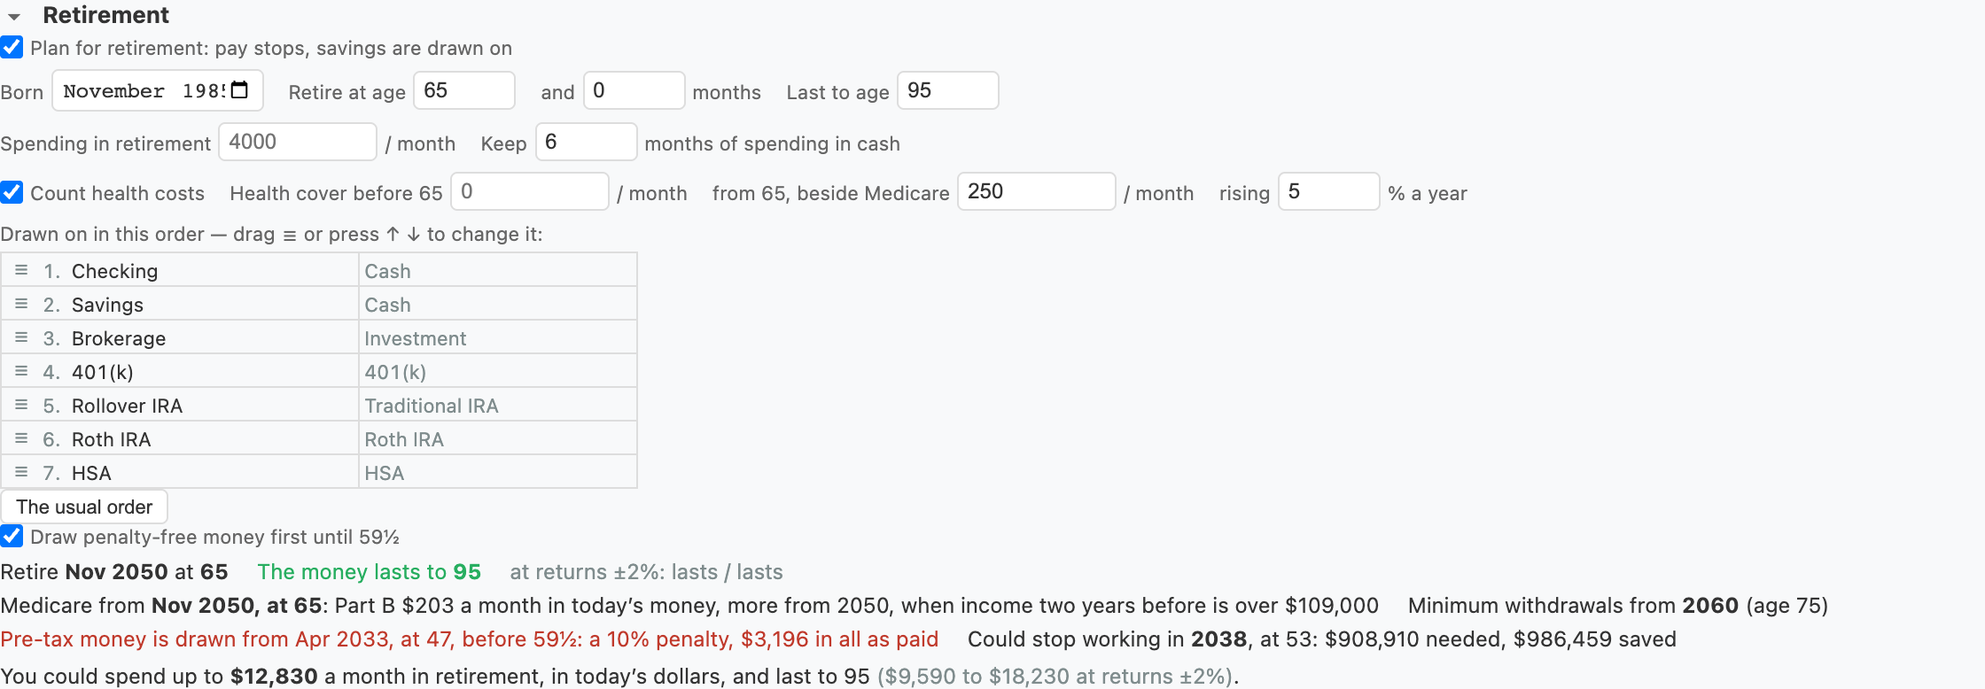
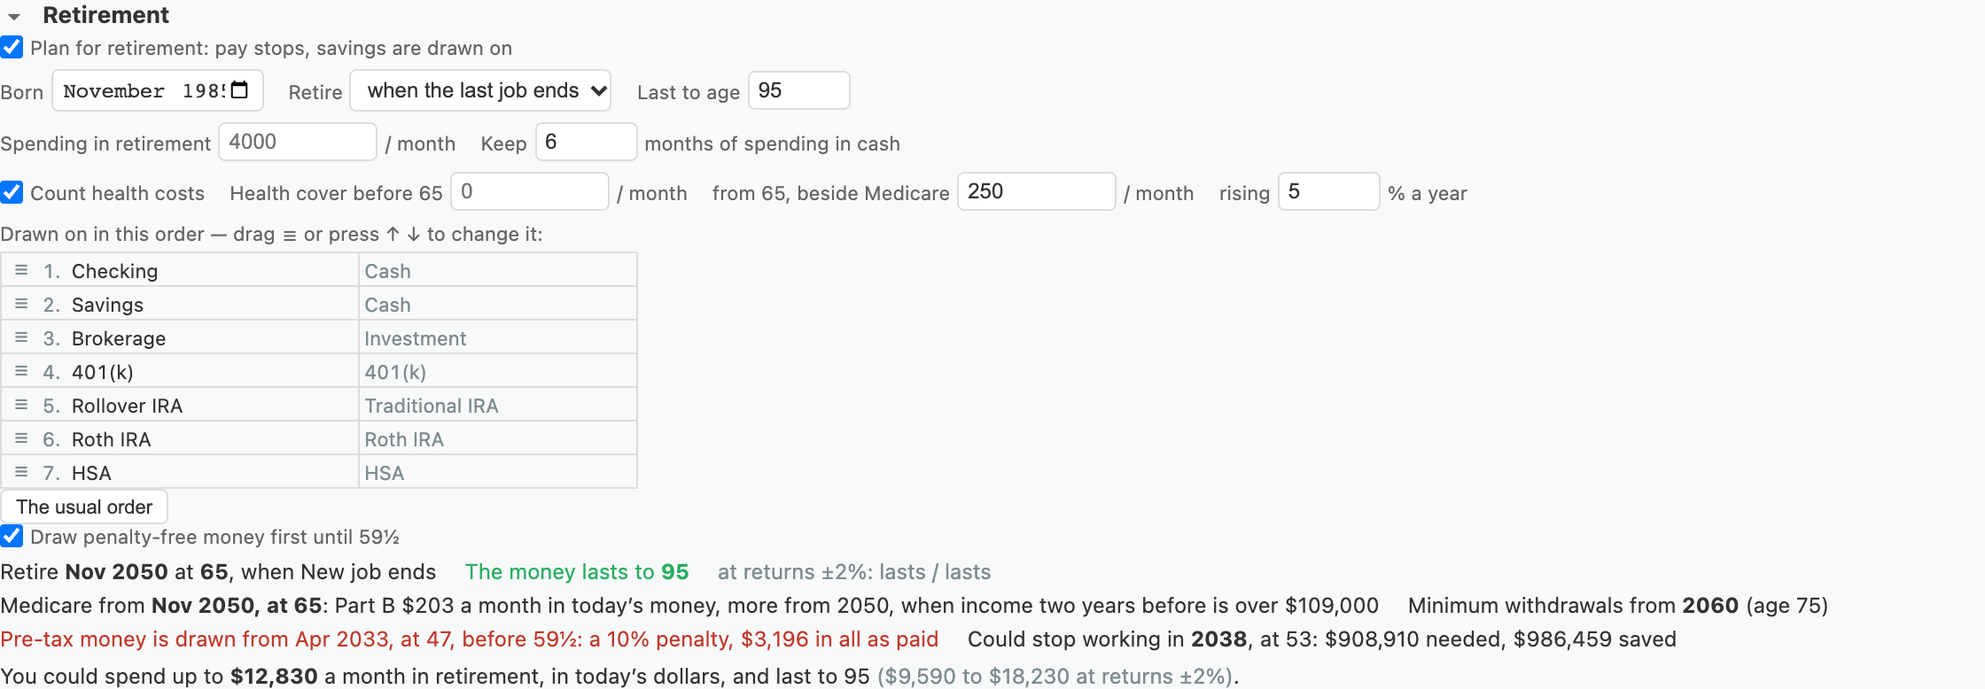
Finance Planning: retire when the last job ends, and the age-55 rule by the job
Retirement can start at an age or the month after the last job ends, falling back on the
age where a job has no end date. Pay lines can be marked part-time or bridge work, which
holds nothing back. The gap warning offers the change when every job has an end date, and
the stocks and bonds mix counts the years to the date in use.

A 401(k) or 403(b) now takes the age-55 exception from the end of the job paying into it,
where the plan says when that is, rather than from retirement.

The example retires with its last job, in the same month as before.

Changed region(s): [[0.125, 0.8021, 0.5, 0.8638], [0.1562, 0.0925, 0.4688, 0.1851]]

diff --git a/plugins/toolboxes/finance-tools.js b/plugins/toolboxes/finance-tools.js
@@ -153,6 +153,9 @@ tr.fp-acc.fp-open td { background: var(--bg-secondary); }
 .fp-table.fp-draw { width: auto; min-width: 360px; }
 .fp-draw-n { color: var(--text-muted); margin: 0 4px 0 2px; }
 .fp-retire-out { margin-top: 6px; }
+.fp-retire-age { display: contents; }
+.calc-widget.fp-widget .fp-assume select[data-k="from"] { width: auto; padding: 3px 5px; font-size: 12px; }
+.fp-retire-age[hidden] { display: none; }
 .fp-retire-max { margin-top: 4px; }
 .fp-flow { display: flex; flex-wrap: wrap; gap: 4px 14px; font-variant-numeric: tabular-nums; }
 .fp-into { margin-top: 6px; color: var(--text-secondary); }
@@ -1537,7 +1540,7 @@ function fpDefaultPlan() {
     Object.keys(FP_KINDS).forEach(k => { returns[k] = FP_KINDS[k].rate; });
     return { accounts: [], incomes: [], expenses: [], goals: [], tax: { on: true, status: 'single', year: '' }, surplusTo: '',
         assume: { years: 30, inflation: 2.5, real: true, spread: 2, target: 1000000, returns: returns },
-        retire: { on: false, birth: '', ageYears: 65, ageMonths: 0, until: 95, spending: null, buffer: 6, avoidPenalty: true, health: false, healthBefore: null, healthAfter: null, medInfl: 5 }, drawOrder: [],
+        retire: { on: false, birth: '', from: 'age', ageYears: 65, ageMonths: 0, until: 95, spending: null, buffer: 6, avoidPenalty: true, health: false, healthBefore: null, healthAfter: null, medInfl: 5 }, drawOrder: [],
         // Where the next dollar goes: the thresholds its steps use, and how much risk.
         advice: { starter: 1, months: 6, debtRate: 8, risk: 'middle', stocks: 8, bonds: 4, lump: null } };
 }
@@ -2238,8 +2241,20 @@ function fpIsRoth(a) {
     return a.kind === 'retirement' && a.tax === 'roth';
 }
 
+/** The job that ends last, `line`, for a retirement that goes by it — or, where a job has no
+ *  end, that job as `open`. Part-time or bridge work holds nothing back; a pension or rent
+ *  is not a job. */
+function fpLastJob(plan) {
+    const jobs = fpEntries(plan.incomes).filter(l => l.type !== 'ss' && l.wages !== false && !l.bridge && fpNum(l.amount, 0) > 0);
+    const open = jobs.find(l => !l.to);
+    if (open || !jobs.length) return { line: null, open: open || null };
+    return { line: jobs.reduce((a, b) => b.to > a.to ? b : a), open: null };
+}
+
 /** When retirement starts and how long the plan runs, from the birth month — the plan's
- *  own, or the first Social Security line's — or null when it is off or cannot be told. */
+ *  own, or the first Social Security line's — or null when it is off or cannot be told.
+ *  It starts at the age given or, told to go by the job, the month after the last one ends;
+ *  a job with no end falls back on the age. */
 function fpRetireInfo(plan) {
     const r = plan.retire || {};
     if (!r.on) return null;
@@ -2248,10 +2263,12 @@ function fpRetireInfo(plan) {
     const m = /^(\d{4})-(\d{2})$/.exec(birth || '');
     if (!m) return { missing: 'birth' };
     const by = +m[1], bm = +m[2] - 1;
-    const at = Math.round(fpNum(r.ageYears, 65) * 12 + fpNum(r.ageMonths, 0));
+    const job = r.from === 'job' ? fpLastJob(plan) : null;
+    const ended = job && job.line ? job.line.to.split('-').map(Number) : null;
+    const at = ended ? ended[0] * 12 + ended[1] - (by * 12 + bm) : Math.round(fpNum(r.ageYears, 65) * 12 + fpNum(r.ageMonths, 0));
     const until = Math.max(Math.ceil(at / 12) + 1, Math.round(fpNum(r.until, 95)));
     const date = new Date(by, bm + at, 1);
-    return { birthYear: by, birthMonth: bm, birth: birth, atMonths: at, date: date, ym: fpYm(date), until: until, end: new Date(by, bm + until * 12, 1),
+    return { birthYear: by, birthMonth: bm, birth: birth, atMonths: at, job: job, date: date, ym: fpYm(date), until: until, end: new Date(by, bm + until * 12, 1),
         rmdAge: fpRmdAge(by), early: taxRulesFor('').withdraw.early, penalty: taxRulesFor('').withdraw.penalty, sepAge: taxRulesFor('').withdraw.sepAge, hsaAge: taxRulesFor('').withdraw.hsaAge, hsaPenalty: taxRulesFor('').withdraw.hsaPenalty, ageAt: (d) => (d.getFullYear() * 12 + d.getMonth()) - (by * 12 + bm) };
 }
 
@@ -2457,6 +2474,17 @@ function fpProject(plan, shift, opts) {
     // penalty from then. IRAs keep the early age.
     const leftWork = !retOk ? null : opts.stopT !== undefined && isFinite(opts.stopT) ? new Date(start.getFullYear(), start.getMonth() + opts.stopT - 1, 1) : ret.date;
     const leftAt55 = !!leftWork && leftWork.getFullYear() - ret.birthYear >= ret.sepAge;
+    // A 401(k) or 403(b) goes by the job paying into it, where the plan says when that ends:
+    // the month after the last line into it, or work stopping if that is sooner.
+    const leftJob = {};
+    plan.accounts.filter(a => a.kind === 'retirement' && a.planType !== 'ira' && a.planType !== '457').forEach(a => {
+        const lines = fpEntries(plan.incomes).filter(l => l.type !== 'ss' && fpIntoRows(l).some(r => r.account === a.id));
+        if (!lines.length || lines.some(l => !l.to)) return;
+        const [y, m] = lines.reduce((x, l) => l.to > x ? l.to : x, '').split('-').map(Number);
+        let left = new Date(y, m, 1);
+        if (opts.stopT !== undefined && isFinite(opts.stopT)) left = new Date(Math.min(left, new Date(start.getFullYear(), start.getMonth() + opts.stopT - 1, 1)));
+        leftJob[a.id] = left;
+    });
     let first = null;
     const snaps = opts.snapshots ? [] : null;
     // What made up each row: this month into row 0 as well as row 1.
@@ -2640,7 +2668,9 @@ function fpProject(plan, shift, opts) {
             if (a.kind !== 'retirement' || age >= W.early) return 0;
             // Before retirement, the job is not taken to be left: no age-55 exception.
             if (retired && a.planType === '457') return 0;
-            if (retired && a.planType !== 'ira' && leftAt55) return 0;
+            const left = leftJob[a.id];
+            if (left) { if (birthB && date >= left && left.getFullYear() - birthB.y >= W.sepAge) return 0; }
+            else if (retired && a.planType !== 'ira' && leftAt55) return 0;
             return W.penalty / 100;
         };
         // What can come out of an account this month without a penalty: all of it, a Roth's
@@ -2812,6 +2842,15 @@ function fpPayGap(plan, ret) {
         }
     }
     return null;
+}
+
+/** The gap closed: retirement from here goes by the last job. */
+function fpRetireByJob(btn) {
+    const widget = fpWidget(btn), toolId = fpToolId(btn);
+    const plan = fpGet(toolId);
+    plan.retire.from = 'job';
+    fpSet(toolId, plan);
+    fpRender(widget);
 }
 
 /**
@@ -3131,7 +3170,8 @@ function fpAdviceMix(plan, proj) {
     const a = plan.advice || {};
     const birth = fpBirthOf(plan);
     if (!birth) return null;
-    const retAge = fpNum((plan.retire || {}).ageYears, 65) + fpNum((plan.retire || {}).ageMonths, 0) / 12;
+    const ret = fpRetireInfo(plan);
+    const retAge = ret && !ret.missing ? ret.atMonths / 12 : fpNum((plan.retire || {}).ageYears, 65) + fpNum((plan.retire || {}).ageMonths, 0) / 12;
     const now = new Date();
     const age = (now.getFullYear() * 12 + now.getMonth() - (birth.y * 12 + birth.m)) / 12;
     const years = retAge - age;
@@ -3552,6 +3592,8 @@ function fpIncomeDetailsRow(plan, l) {
         '<div class="fp-detail-fields">' +
         '<label class="fp-check" title="Pay from a job has Social Security and Medicare tax taken from it; a pension, rent or interest does not"><input class="fp-in" type="checkbox" data-f="wages"' +
             (l.wages !== false ? ' checked' : '') + '> Pay from work (payroll tax)</label>' +
+        '<label class="fp-check" title="Work that carries on after retirement until its own end date, or fills the time until then. Retiring when the last job ends takes no account of it."><input class="fp-in" type="checkbox" data-f="bridge"' +
+            (l.bridge ? ' checked' : '') + '> Part-time or bridge work: doesn’t hold back retirement</label>' +
         '</div><div class="fp-detail-sum"></div></td></tr>';
 }
 
@@ -3625,8 +3667,10 @@ function fpRetireFields(plan, attr, under) {
     return head +
         '<div class="fp-assume">' +
             '<label>Born <input class="fp-in fp-date" type="month" data-a="retire" data-k="birth" value="' + attr(r.birth) + '"' + (ss ? ' title="Empty: ' + ss.birth + ', from Social Security"' : '') + '></label>' +
-            '<label>Retire at age <input class="fp-in fp-num fp-small" type="number" min="40" max="80" data-a="retire" data-k="ageYears" value="' + attr(r.ageYears) + '" placeholder="65"></label>' +
-            '<label>and <input class="fp-in fp-num fp-small" type="number" min="0" max="11" data-a="retire" data-k="ageMonths" value="' + attr(r.ageMonths) + '" placeholder="0"> months</label>' +
+            '<label title="At an age you give, or the month after the last pay from work ends. A job with no end date falls back on the age.">Retire <select class="fp-in" data-a="retire" data-k="from">' +
+                '<option value="age"' + (r.from !== 'job' ? ' selected' : '') + '>at age</option><option value="job"' + (r.from === 'job' ? ' selected' : '') + '>when the last job ends</option></select></label>' +
+            '<span class="fp-retire-age"><label><input class="fp-in fp-num fp-small" type="number" min="40" max="80" data-a="retire" data-k="ageYears" aria-label="Retirement age" value="' + attr(r.ageYears) + '" placeholder="65"></label>' +
+            '<label>and <input class="fp-in fp-num fp-small" type="number" min="0" max="11" data-a="retire" data-k="ageMonths" value="' + attr(r.ageMonths) + '" placeholder="0"> months</label></span>' +
             '<label>Last to age <input class="fp-in fp-num fp-small" type="number" min="60" max="115" data-a="retire" data-k="until" value="' + attr(r.until) + '" placeholder="95"></label>' +
         '</div><div class="fp-assume">' +
             '<label title="In today’s dollars; it rises with inflation. Empty: today’s expenses.">Spending in retirement <input class="fp-in fp-num" type="number" data-a="retire" data-k="spending" value="' + attr(r.spending) + '" placeholder="' + Math.round(fpRetireSpending(Object.assign({}, plan, { retire: Object.assign({}, r, { spending: null }) }))) + '"> / month</label>' +
@@ -3658,7 +3702,7 @@ function fpRetireLines(plan, proj) {
     const ret = proj.retire;
     if (!ret) return [];
     const ms = proj.milestones, mon = (d) => d.toLocaleDateString(undefined, { month: 'short', year: 'numeric' });
-    const lines = ['Retire ' + mon(ret.date) + ' at ' + fpAgeText(ret.atMonths) + ', spending ' + fpMoney(fpRetireSpending(plan)) + ' a month in today’s dollars, keeping ' +
+    const lines = ['Retire ' + mon(ret.date) + ' at ' + fpAgeText(ret.atMonths) + (ret.job && ret.job.line ? ', when ' + (ret.job.line.name || 'the last job') + ' ends' : '') + ', spending ' + fpMoney(fpRetireSpending(plan)) + ' a month in today’s dollars, keeping ' +
         fpNum(plan.retire.buffer, 6) + ' months of it in cash.'];
     if (ms.runsOut === null) lines.push('The money lasts to ' + ret.until + '.');
     else { const d = new Date(proj.start.getFullYear(), proj.start.getMonth() + ms.runsOut - 1, 1); lines.push('The money runs out at ' + Math.floor(ret.ageAt(d) / 12) + ', in ' + mon(d) + '.'); }
@@ -3685,7 +3729,11 @@ function fpRenderRetire(widget, plan, proj, low, high) {
     if (ret.missing) { out.innerHTML = '<span class="fp-note">A birth month — here, or on a Social Security line — is all it needs to know when.</span>'; return; }
     const ms = proj.milestones;
     const mon = (d) => d.toLocaleDateString(undefined, { month: 'short', year: 'numeric' });
-    const bits = ['Retire <b>' + mon(ret.date) + '</b> at <b>' + fpAgeText(ret.atMonths) + '</b>'];
+    const byJob = ret.job && ret.job.line;
+    const ageBox = widget.querySelector('.fp-retire-age');
+    if (ageBox) ageBox.hidden = !!byJob;
+    const bits = ['Retire <b>' + mon(ret.date) + '</b> at <b>' + fpAgeText(ret.atMonths) + '</b>' + (byJob ? ', when ' + escapeHtml(byJob.name || 'the last job') + ' ends' : '')];
+    if (ret.job && !byJob) bits.push('<span class="fp-muted">' + (ret.job.open ? escapeHtml(ret.job.open.name || 'A job') + ' has no end date' : 'No job in Income') + ', so the age above is used</span>');
     if (ms.runsOut === null) bits.push('<span class="fp-pos">The money lasts to <b>' + ret.until + '</b></span>');
     else {
         const d = new Date(proj.start.getFullYear(), proj.start.getMonth() + ms.runsOut - 1, 1);
@@ -3697,7 +3745,8 @@ function fpRenderRetire(widget, plan, proj, low, high) {
         bits.push('<span class="fp-muted">at returns ±' + fpNum(plan.assume.spread, 0) + '%: ' + said(lo) + ' / ' + said(hi) + '</span>');
     }
     const gap = fpPayGap(plan, ret);
-    if (gap) bits.push('<span class="fp-neg">Pay stops in <b>' + fpWhen(plan, gap) + '</b>, but retirement is set for ' + fpWhen(plan, ret.date) + ': savings are drawn on in between.</span>');
+    if (gap) bits.push('<span class="fp-neg">Pay stops in <b>' + fpWhen(plan, gap) + '</b>, but retirement is set for ' + fpWhen(plan, ret.date) + ': savings are drawn on in between.</span>' +
+        (plan.retire.from !== 'job' && fpLastJob(plan).line ? ' <button type="button" class="fp-btn" onclick="fpRetireByJob(this)">Retire when the last job ends</button>' : ''));
     if (ms.medicare !== null) {
         const h = fpHealthOf(plan);
         bits.push('Medicare from <b>' + fpWhen(plan, fpMonthAt(proj.start, ms.medicare)) + '</b>: Part B ' + fpMoney(h.partB * h.persons) + ' a month' + (h.persons > 1 ? ' for two' : '') + ' in today’s money' +
@@ -4577,7 +4626,7 @@ function fpOnInput(el) {
         else if (a === 'surplusTo') plan.surplusTo = val;
         else if (a === 'real') plan.assume.real = val;
         else if (a === 'retireOn') plan.retire.on = val;
-        else if (a === 'retire') plan.retire[el.dataset.k] = ['birth', 'health', 'avoidPenalty'].includes(el.dataset.k) ? val : num(val);
+        else if (a === 'retire') plan.retire[el.dataset.k] = ['birth', 'from', 'health', 'avoidPenalty'].includes(el.dataset.k) ? val : num(val);
         else if (a === 'advice') plan.advice[el.dataset.k] = el.dataset.k === 'risk' ? val : num(val);
         else plan.assume[a] = num(val);
     } else {
@@ -4609,7 +4658,7 @@ function fpOnInput(el) {
     if (el.dataset.f === 'into.account') { fpRender(widget); return; }
     // A new kind changes what the row offers (its link, its placeholder): drawn again.
     // So does the tax year (the rules named), and federal tax on or off (payroll tax follows it).
-    if (el.dataset.f === 'kind' || el.dataset.f === 'tax' || el.dataset.f === 'planType' || el.dataset.f === 'hsaCover' || ['retireOn', 'taxYear', 'taxOn'].includes(el.dataset.a)) { fpRender(widget); return; }
+    if (el.dataset.f === 'kind' || el.dataset.f === 'tax' || el.dataset.f === 'planType' || el.dataset.f === 'hsaCover' || el.dataset.k === 'from' || ['retireOn', 'taxYear', 'taxOn'].includes(el.dataset.a)) { fpRender(widget); return; }
     // Read back, so a Social Security estimate follows the pay or the birth month typed.
     fpRenderDerived(widget, fpGet(toolId));
 }
@@ -4752,7 +4801,7 @@ function fpApplyHashParams(toolId, params) {
     if (plan.accounts.length || plan.incomes.length || plan.expenses.length) return;
     fpSample(widget);
     const p = fpGet(toolId);
-    p.retire = Object.assign({}, p.retire, { on: true, birth: '1985-11', ageYears: 65, ageMonths: 0, until: 95, health: true, healthAfter: 250 });
+    p.retire = Object.assign({}, p.retire, { on: true, from: 'job', birth: '1985-11', ageYears: 65, ageMonths: 0, until: 95, health: true, healthAfter: 250 });
     p.incomes.push({ id: fpNewId('ss'), type: 'ss', name: 'Social Security', birth: '1985-11', fraBenefit: null, claimYears: 67, claimMonths: 0, every: 'month', growth: null, to: '', taxed: true });
     const account = (name) => p.accounts.find(a => a.name === name);
     const roth = { id: fpNewId('a'), name: 'Roth IRA', kind: 'retirement', planType: 'ira', tax: 'roth', balance: 30000, basis: 18000, rate: null, monthly: 300 };
@@ -4764,7 +4813,7 @@ function fpApplyHashParams(toolId, params) {
     account('401(k)').monthly = null;
     const into = (k401) => [{ id: fpNewId('r'), account: account('401(k)').id, amount: k401, match: null }, { id: fpNewId('r'), account: hsa.id, amount: 3000, match: null }];
     Object.assign(p.incomes[0], { amount: 130000, deductions: 10800, matchRate: 50, matchCap: 6, to: '2032-05', into: into(7800) });
-    p.incomes.splice(1, 0, { id: fpNewId('i'), name: 'New job', amount: 145000, every: 'year', growth: 3, from: '2032-06', to: '', taxed: true, deductions: 11700, matchRate: 50, matchCap: 6, into: into(8700) });
+    p.incomes.splice(1, 0, { id: fpNewId('i'), name: 'New job', amount: 145000, every: 'year', growth: 3, from: '2032-06', to: '2050-10', taxed: true, deductions: 11700, matchRate: 50, matchCap: 6, into: into(8700) });
     p.expenses.push({ id: fpNewId('e'), name: 'Childcare', amount: 900, every: 'month', growth: null, from: '', to: '2031-08' });
     p.goals = [
         { id: fpNewId('s'), type: 'section', name: 'Big costs', folded: false },
@@ -5148,7 +5197,7 @@ function fpAIFinish(result) {
 (function injectScriptsForExport() {
     if (document.getElementById('finance-tools-scripts')) return;
 
-    const functionsToExport = [fpRetireLines, fpRetireFields, fpRenderRetire, fpTaxInfo, fpSSTaxable, fpFederalTax, fpPayrollTax, fpPretaxPay, fpBasisOf, fpBirthYear, fpBirthOf, fpAgeAt, fpWhen, fpMonthAt, fpRefreshAgeHints, fpLimitCheck, fpLimitText, fpTaxWith, fpRmdAge, fpRmdFactor, fpRetKey, fpKindLabel, fpIsPretax, fpRetireInfo, fpRetireSpending, fpDrawOrder, fpRetireMax, fpHealthOf, fpPayGap, fpAdviceFields, fpMarginal, fpAdviceSteps, fpAdviceSplit, fpAdviceMix, fpAdviceHtml, fpUseMixReturn, fpResetDrawOrder, fpLimitGroup, fpGroupLimit, fpGroupOwn, fpMatchOf, fpNeededToStop, fpNeededFor, fpNeededText, fpAIEsc, fpAIName, fpAIFacts, fpAITarget, fpAICleanDraft, fpAIDraftPreview, fpAICleanSections, fpAISectionsPreview, fpAIApply, fpAIFinish, fpFullRetirementMonths, fpClaimFactor, fpSSEstimate, fpSSPayOf, fpWithEstimates, fpSSEstimateFields, fpSSInfo, fpAgeText, fpAddSocialSecurity, fpPayrollTarget, fpIntoRows, fpIntoOf, fpAddInto, fpRemoveInto, fpSetInto, fpPayrollNow, fpPayrollMonthlyOf, fpIncomeDetailsRow, fpIncomeDetailSummary, fpRefreshIncomeDetails, fpEscrowOf, fpPerMonth, fpHasTypedTax, fpIsSection, fpEntries, fpCalc, fpSectionsOf, fpSectionTotal, fpRefreshSections, fpAddSection, fpSectionFold, fpOpenAround, fpMoveSection, fpSectionIds, fpGrip, fpMoveItem, fpGripKey, fpDragStart, fpDragOver, fpDragLeave, fpDrop, fpDragEnd, fpFoldedOf, fpSaveFolded, fpChartSpan, fpChartRange, fpFold, fpFoldAll, fpShowFolded, fpCents, fpClosing, fpLoanTerms, fpBalanceOf, fpMonthlyOf, fpDetailsRow, fpRefreshAccounts, fpDetailSummary, fpToggleDetails, fpTaxYearOptions, fpDefaultPlan, fpNum, fpNewId, fpToolId, fpGet, fpSet, fpRateOf, fpMonthly, fpActive, fpSurplusAccount, fpIncomeTax, fpYm, fpProject, fpRollup, fpMoney, fpMonthText, fpInit, fpRender, fpRenderDerived, fpChart, fpWidget, fpOnInput, fpAdd, fpRemove, fpSample, fpApplyHashParams, fpOpenAccountTool, fpOpenTax, fpSummaryText, fpCopySummary,
+    const functionsToExport = [fpRetireByJob, fpLastJob, fpRetireLines, fpRetireFields, fpRenderRetire, fpTaxInfo, fpSSTaxable, fpFederalTax, fpPayrollTax, fpPretaxPay, fpBasisOf, fpBirthYear, fpBirthOf, fpAgeAt, fpWhen, fpMonthAt, fpRefreshAgeHints, fpLimitCheck, fpLimitText, fpTaxWith, fpRmdAge, fpRmdFactor, fpRetKey, fpKindLabel, fpIsPretax, fpRetireInfo, fpRetireSpending, fpDrawOrder, fpRetireMax, fpHealthOf, fpPayGap, fpAdviceFields, fpMarginal, fpAdviceSteps, fpAdviceSplit, fpAdviceMix, fpAdviceHtml, fpUseMixReturn, fpResetDrawOrder, fpLimitGroup, fpGroupLimit, fpGroupOwn, fpMatchOf, fpNeededToStop, fpNeededFor, fpNeededText, fpAIEsc, fpAIName, fpAIFacts, fpAITarget, fpAICleanDraft, fpAIDraftPreview, fpAICleanSections, fpAISectionsPreview, fpAIApply, fpAIFinish, fpFullRetirementMonths, fpClaimFactor, fpSSEstimate, fpSSPayOf, fpWithEstimates, fpSSEstimateFields, fpSSInfo, fpAgeText, fpAddSocialSecurity, fpPayrollTarget, fpIntoRows, fpIntoOf, fpAddInto, fpRemoveInto, fpSetInto, fpPayrollNow, fpPayrollMonthlyOf, fpIncomeDetailsRow, fpIncomeDetailSummary, fpRefreshIncomeDetails, fpEscrowOf, fpPerMonth, fpHasTypedTax, fpIsSection, fpEntries, fpCalc, fpSectionsOf, fpSectionTotal, fpRefreshSections, fpAddSection, fpSectionFold, fpOpenAround, fpMoveSection, fpSectionIds, fpGrip, fpMoveItem, fpGripKey, fpDragStart, fpDragOver, fpDragLeave, fpDrop, fpDragEnd, fpFoldedOf, fpSaveFolded, fpChartSpan, fpChartRange, fpFold, fpFoldAll, fpShowFolded, fpCents, fpClosing, fpLoanTerms, fpBalanceOf, fpMonthlyOf, fpDetailsRow, fpRefreshAccounts, fpDetailSummary, fpToggleDetails, fpTaxYearOptions, fpDefaultPlan, fpNum, fpNewId, fpToolId, fpGet, fpSet, fpRateOf, fpMonthly, fpActive, fpSurplusAccount, fpIncomeTax, fpYm, fpProject, fpRollup, fpMoney, fpMonthText, fpInit, fpRender, fpRenderDerived, fpChart, fpWidget, fpOnInput, fpAdd, fpRemove, fpSample, fpApplyHashParams, fpOpenAccountTool, fpOpenTax, fpSummaryText, fpCopySummary,
         taxRulesBuiltin, taxMergeShape, taxRuleNum, taxRulesOf, taxRulesFor, fpAgeShort, taxBuiltin, taxClone, taxTableLoad, taxTableSave, taxTableChanged, taxYearsOf, taxDefaultYear, taxProblems, taxBracketsFor,
         tbToolId, tbYearOf, tbMoney, tbInit, tbRender, tbRefreshDerived, tbReadStatus, tbStore, tbOnInput, tbAddBracket, tbRemoveBracket,
         tbSetYear, tbPickYear, tbAddYear, tbDeleteYear, tbResetYear, tbTabOf, tbPickTab, tbShow, tbGetPath, tbSetPath, tbField, tbRows, tbPanel, taxRuleProblems,

diff --git a/learn/tools/finance-planning.html b/learn/tools/finance-planning.html
@@ -258,6 +258,14 @@
     own, go on — and so do contributions. One spending figure, in today's dollars, takes the
     place of Expenses; loans are still paid.
 </p>
+<p>
+    Retirement starts at an age you give, or <em>when the last job ends</em>: the month after the
+    latest end date on your pay from work. A job with no end date falls back on the age, and says
+    so. Tick <em>Part-time or bridge work</em> on a pay line (▸) for work that shouldn't hold
+    retirement back; give it an end date and it carries on until then. If pay stops a year or
+    more before the age you gave, the planner says savings are drawn on in between, and offers to
+    go by the job instead.
+</p>
 <ul class="plain">
     <li><strong>The cash buffer:</strong> each month the cash account is topped up to that many
         months of spending, drawing on the other accounts in the order listed. Drag to change
@@ -271,7 +279,8 @@
         divisor for the age.</li>
     <li><strong>Before 59½:</strong> pre-tax money drawn earlier pays a 10% penalty on top of its
         tax, and enough more is drawn to cover both — except from a 401(k) left in the year you
-        turn 55 or later, or a 457(b) once work stops. From a Roth, contributions come out first
+        turn 55 or later — going by the end date of the job paying into it, if it has one — or a
+        457(b) once work stops. From a Roth, contributions come out first
         and free; earnings drawn early are taxed and penalised. Give its <em>Contributions</em> in
         ▸; left empty, today's balance counts as contributions and only growth from here as
         earnings.</li>

diff --git a/docs/storage.md b/docs/storage.md
@@ -800,7 +800,8 @@ labels.
                 into: [ { id, account, amount, match } ],   // parts of the deductions saved into accounts, each with
                                                             //   the employer's match into it; a plan kept with one
                                                             //   intoAccount / intoAmount / match is read as one row
-                wages } ],                            // false: not pay from work, so no payroll tax
+                wages,                                // false: not pay from work, so no payroll tax
+                bridge } ],                           // true: part-time or bridge work, not the job retirement goes by
             // a Social Security line instead: { id, type: 'ss', name, birth: 'YYYY-MM', fraBenefit,
             //   claimYears, claimMonths, growth /* cost of living */, to, taxed, deductions, taxes,
             //   payFrom: [incomeId], workFrom, pastPay }   // for the estimate when fraBenefit is null
@@ -817,6 +818,7 @@ labels.
   assume: { years: 30, inflation: 2.5, real: true, spread: 2, target: 1000000,
             returns: { cash: 2, investment: 7, … } },
   retire: { on: false, birth: 'YYYY-MM', ageYears: 65, ageMonths: 0, until: 95,
+            from: 'age',                 // 'job': the month after the last job's `to`; a job with no `to` falls back on the age
             health: false, healthBefore, healthAfter, medInfl: 5,   // health costs added to spending, when ticked
             spending: null,              // a month in today's dollars; null = today's expenses
             buffer: 6,                   // months of spending kept in cash
